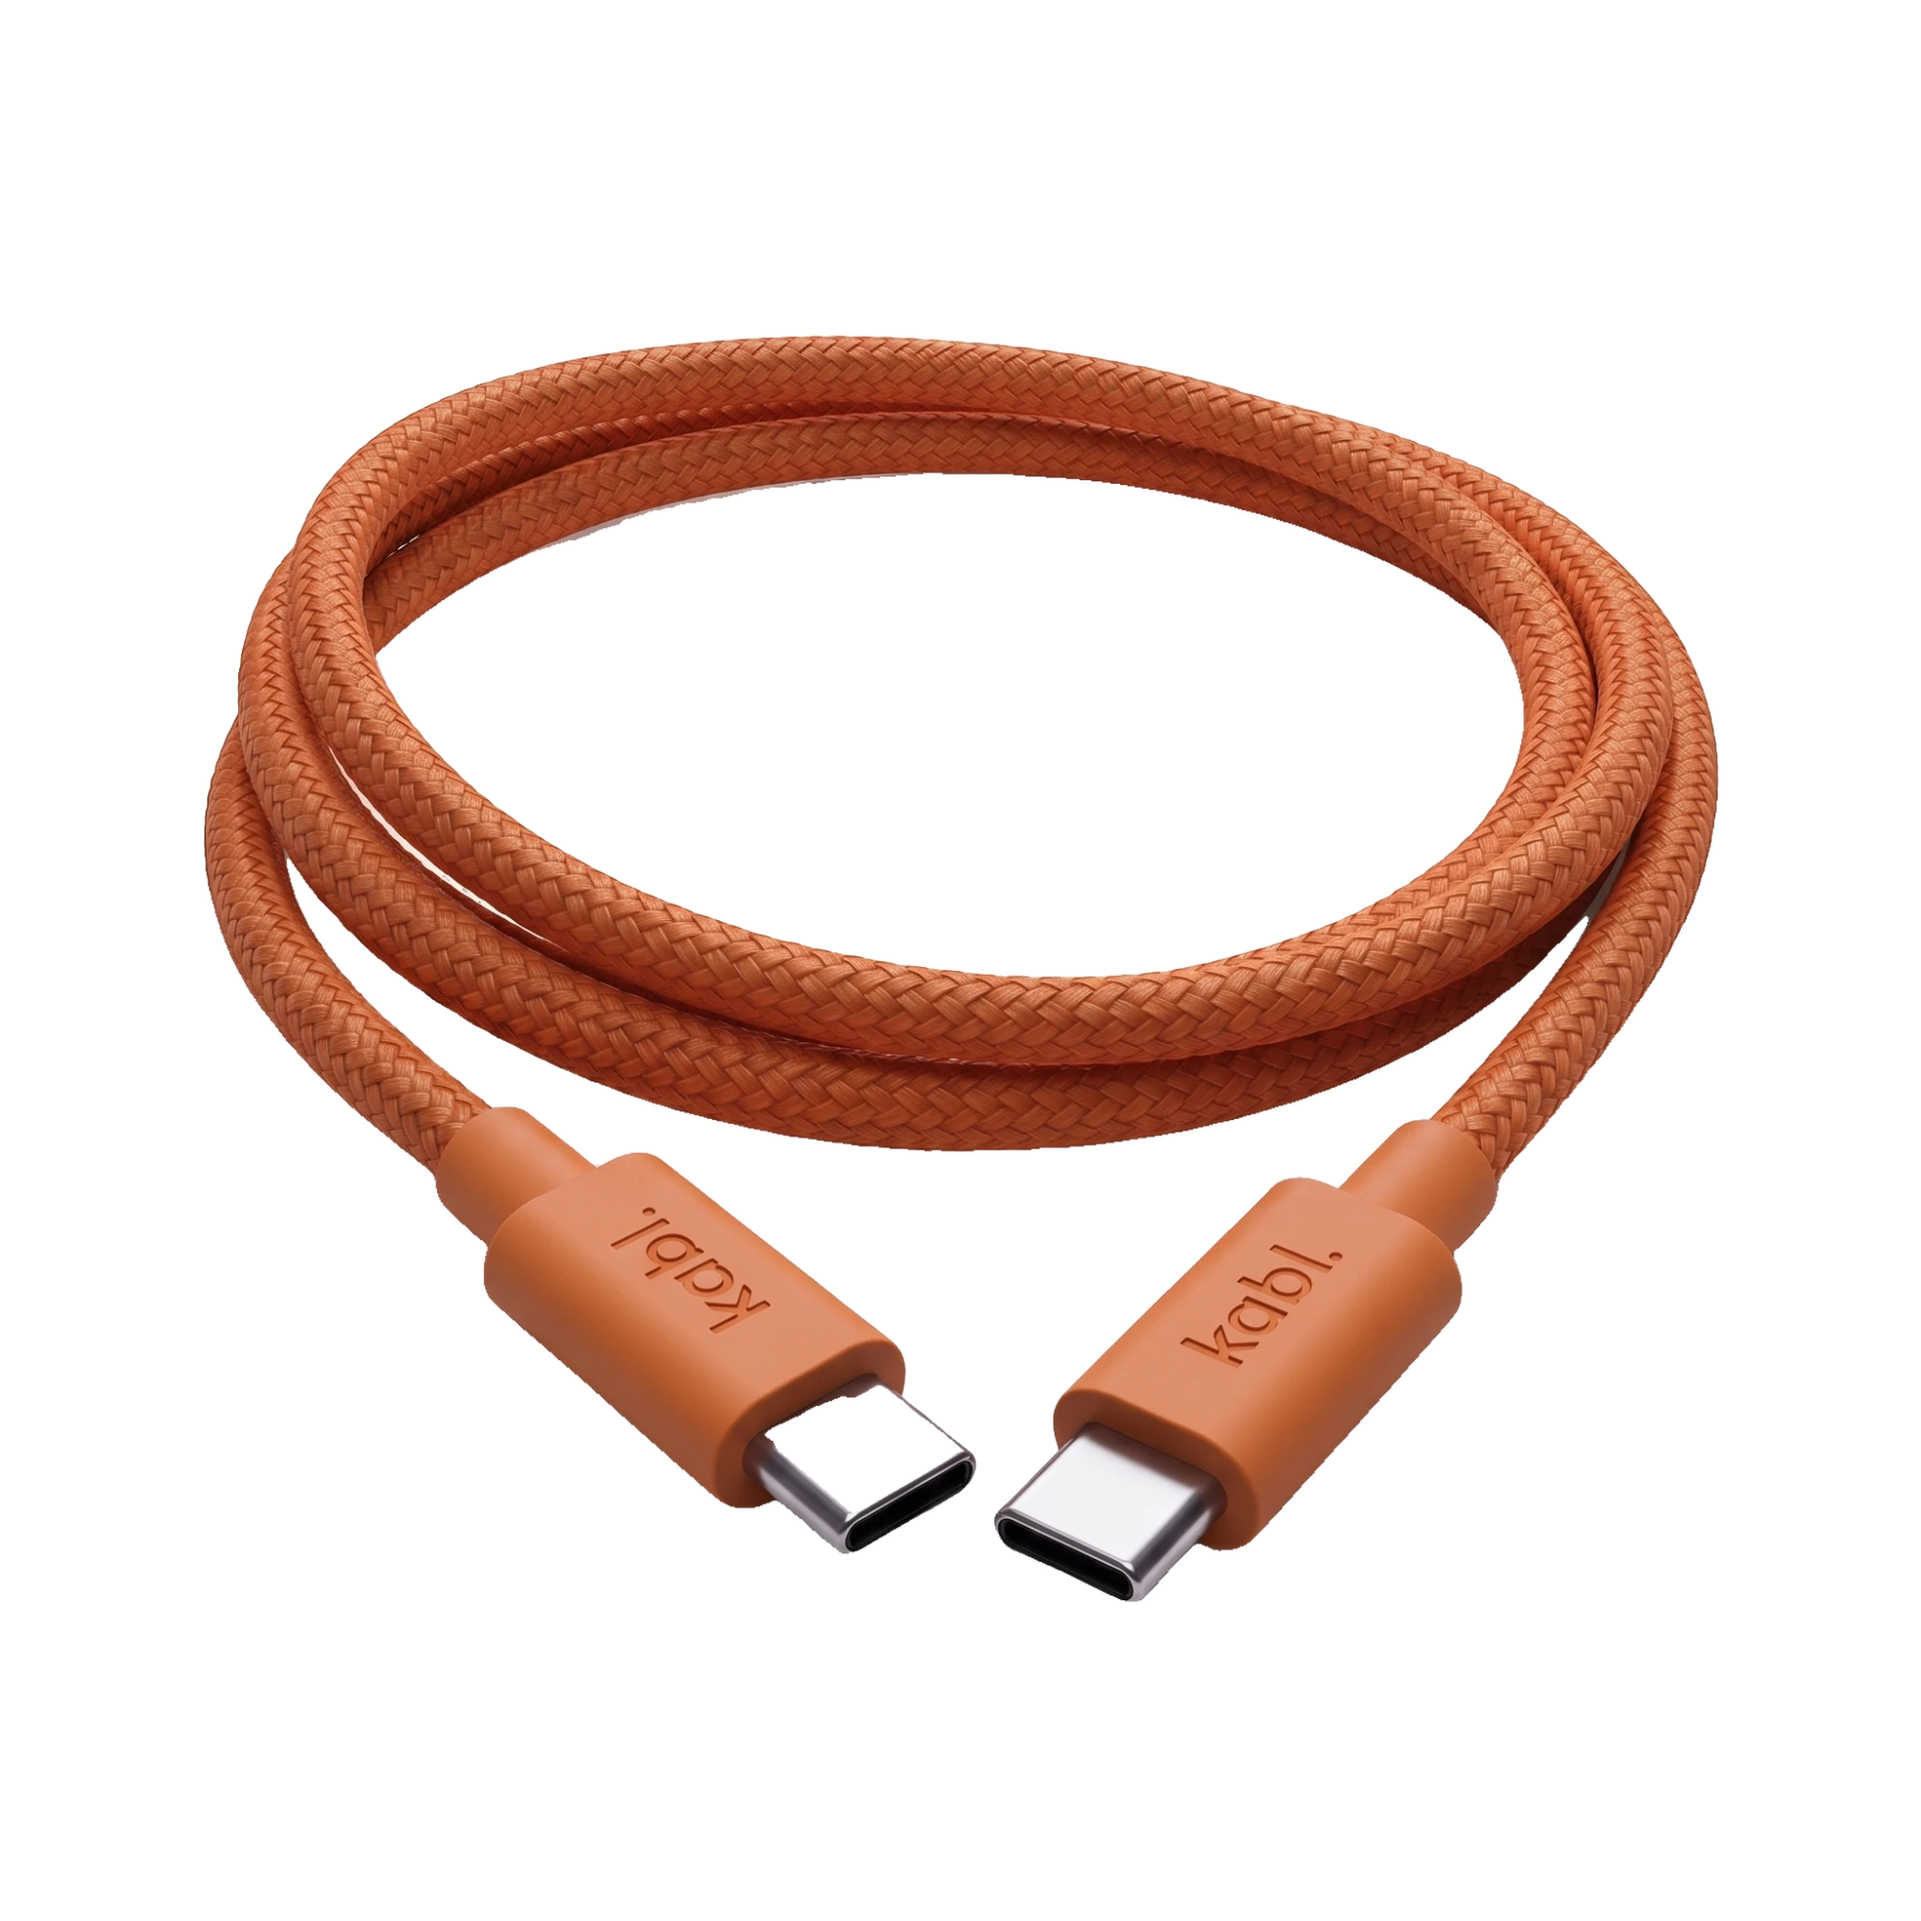
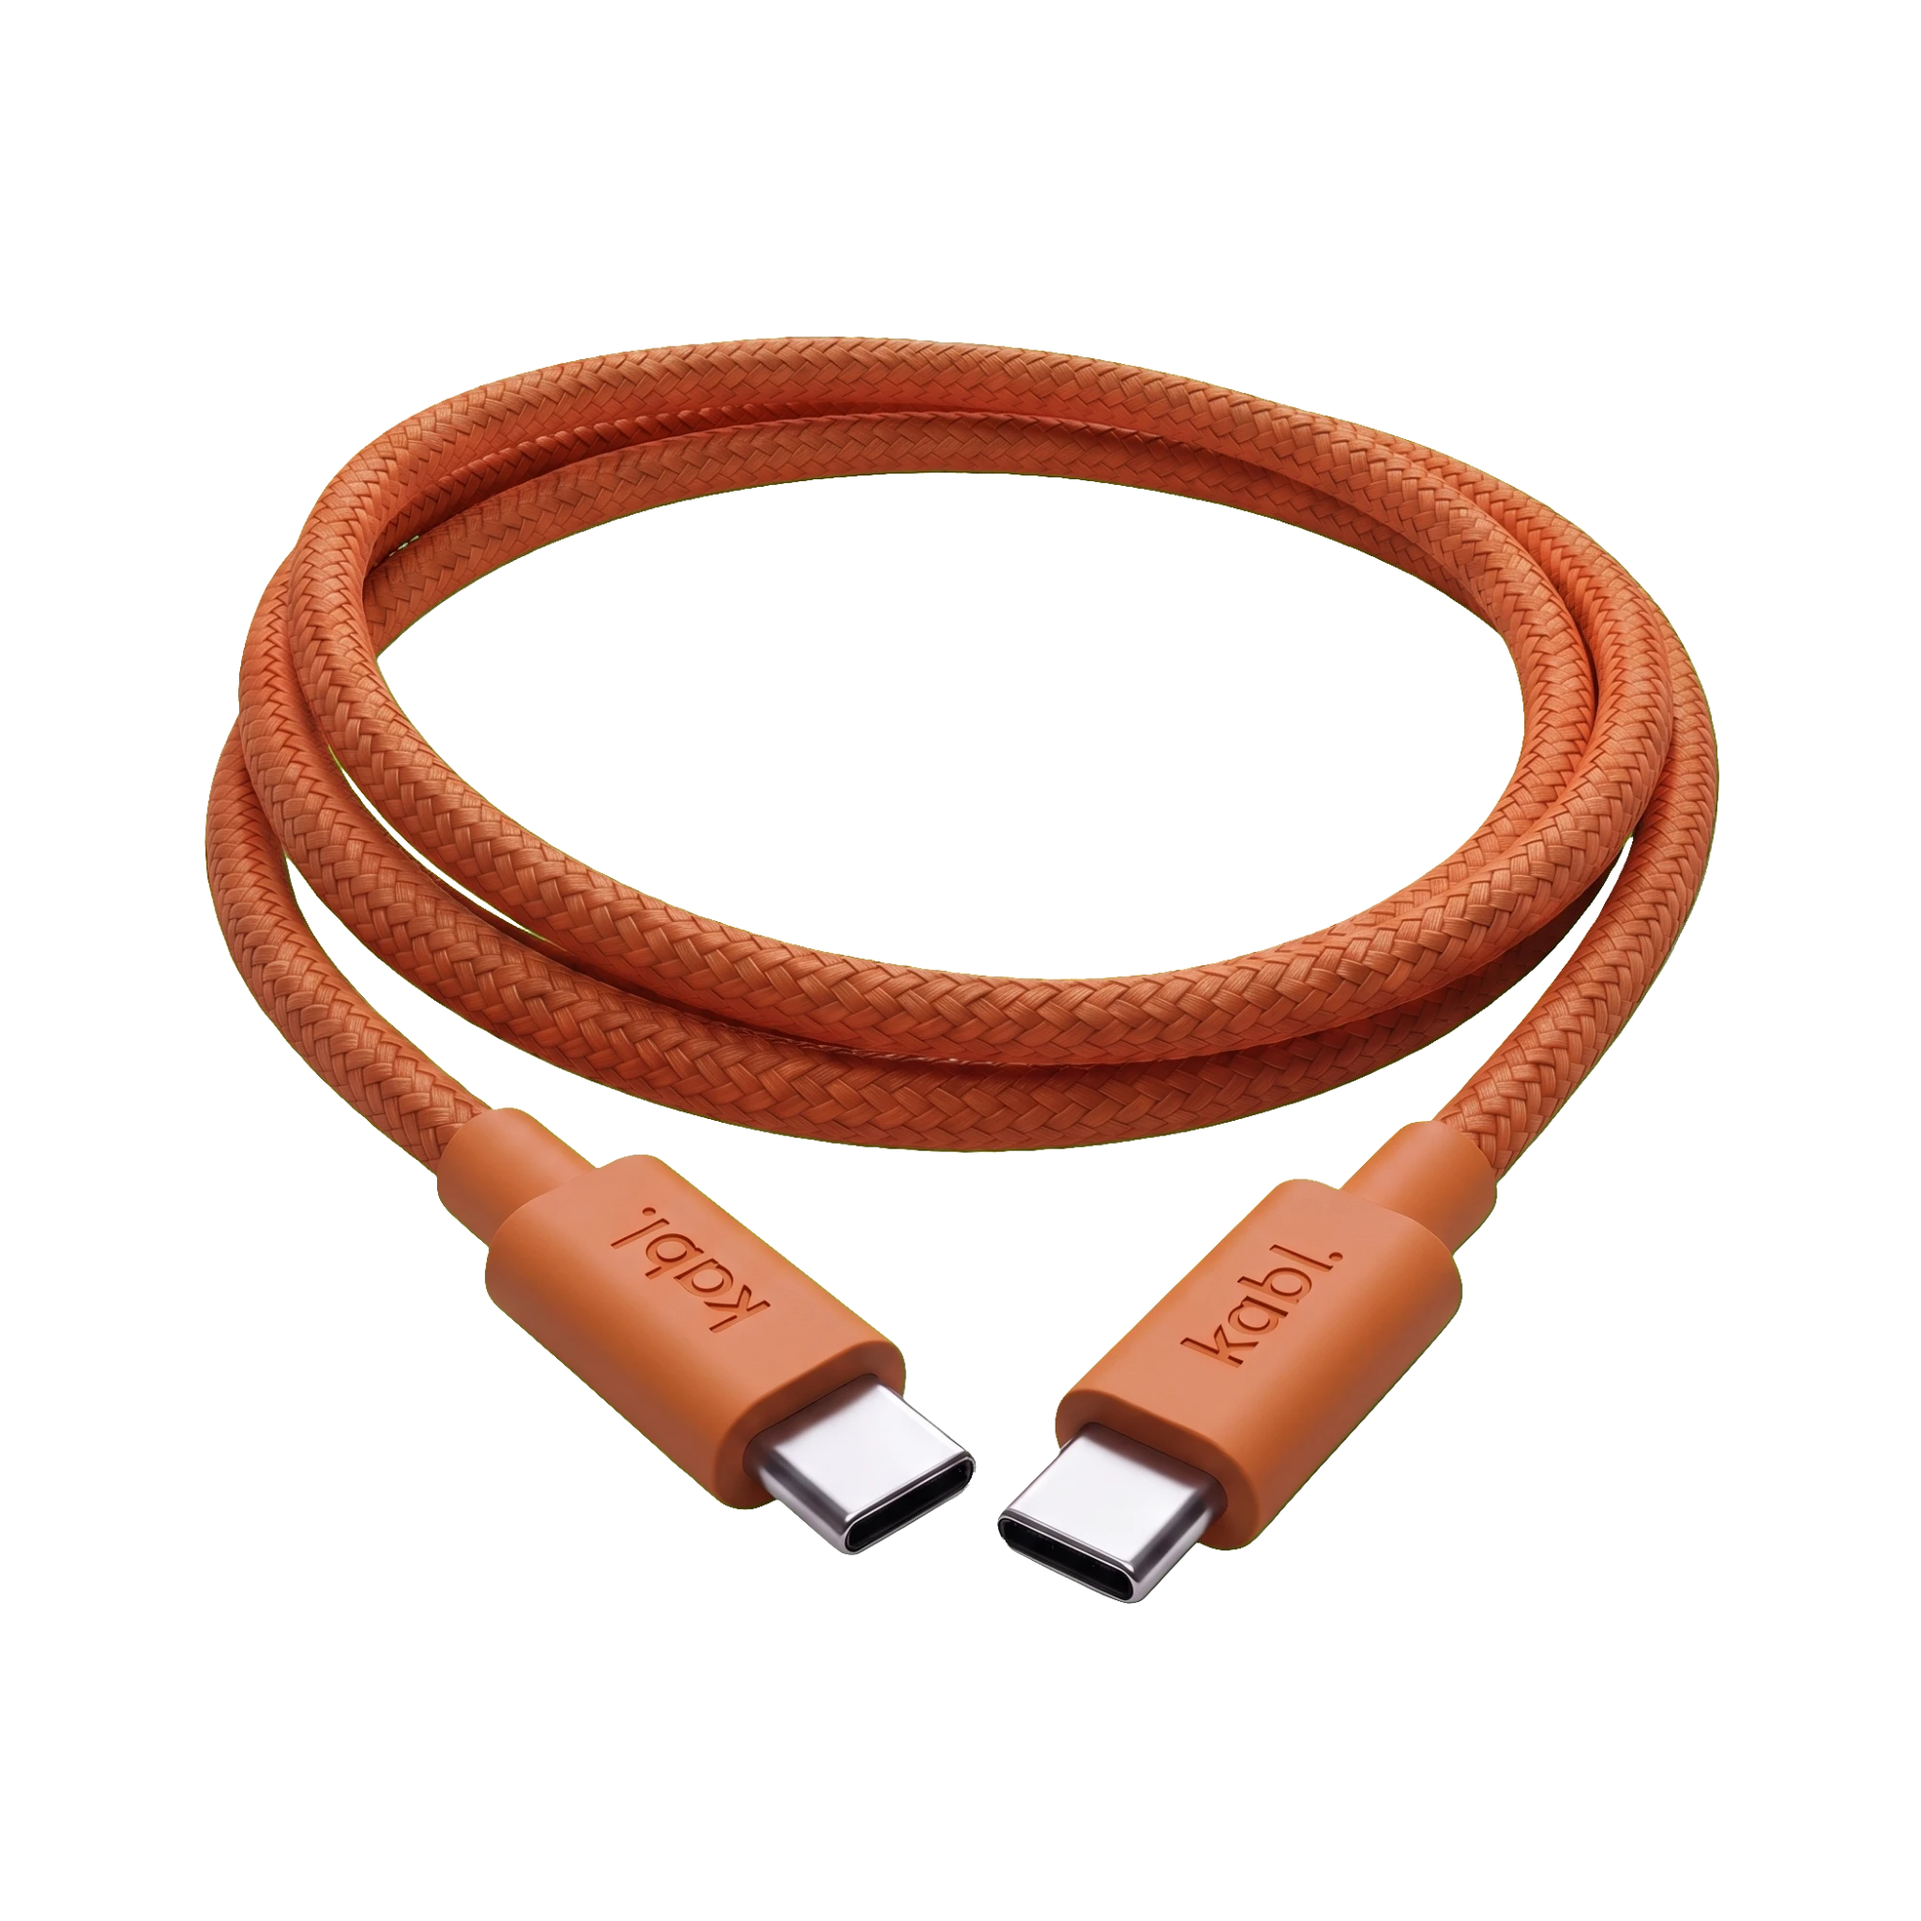
Add silver product shots; all hero panels use supplied cutouts
Remove self-generated cutouts and cutout script, superseded by supplied images.

Claude-Session: https://claude.ai/code/session_01XQRcDw6xW1qCknKpNxmX4K

diff --git a/kabl-theme/mockup/index.html b/kabl-theme/mockup/index.html
@@ -244,7 +244,8 @@ footer{background:var(--parchment);color:var(--ink-80);padding:clamp(40px,5vw,64
       </article>
       <article class="panel" style="--bg:#B7BCC1" tabindex="0" aria-label="kabl. A1 Silver" aria-expanded="false">
         <div class="panel-word" aria-hidden="true"><span>kabl.</span><span>kabl.</span><span>kabl.</span></div>
-        <img class="panel-img img-round" src="img/kabl-a1-silver-01_cutout.webp" alt="kabl. A1 Silver, aufgerollt">
+        <img class="panel-img img-round" src="img/kabl-a1-silver-01_rolle-top_cut.webp" alt="kabl. A1 Silver, aufgerollt">
+        <img class="panel-img img-stand" src="img/kabl-a1-silver-03_stecker-front_cut.webp" alt="" aria-hidden="true">
         <div class="panel-info">
           <p class="panel-price">24,90 €</p>
           <p class="panel-text">kabl. A1 in Silver. Hell und neutral, passt zu MacBook, iPad und jedem Schreibtisch.</p>
